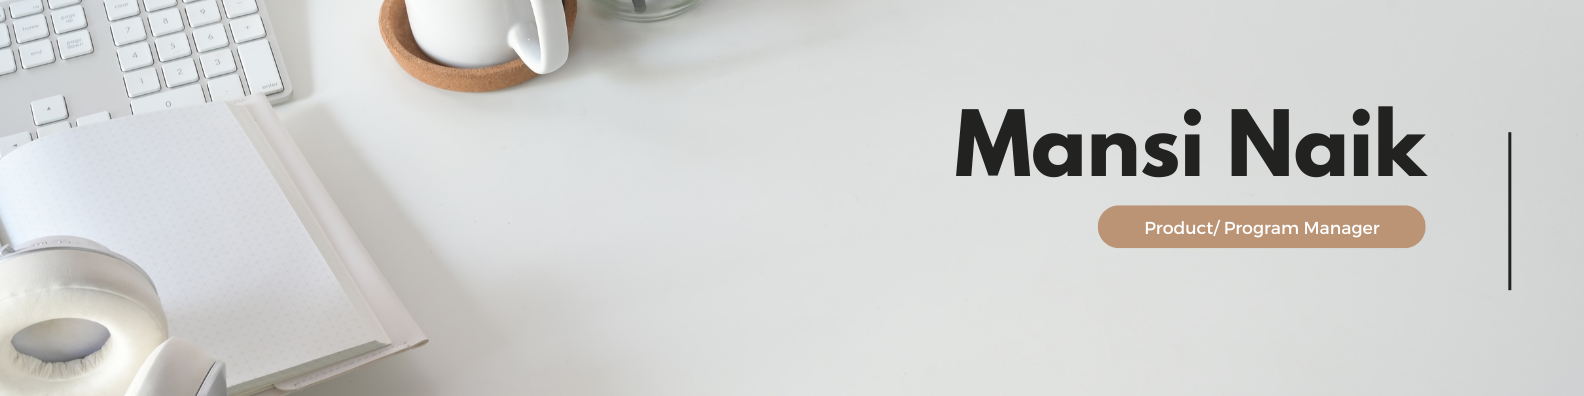
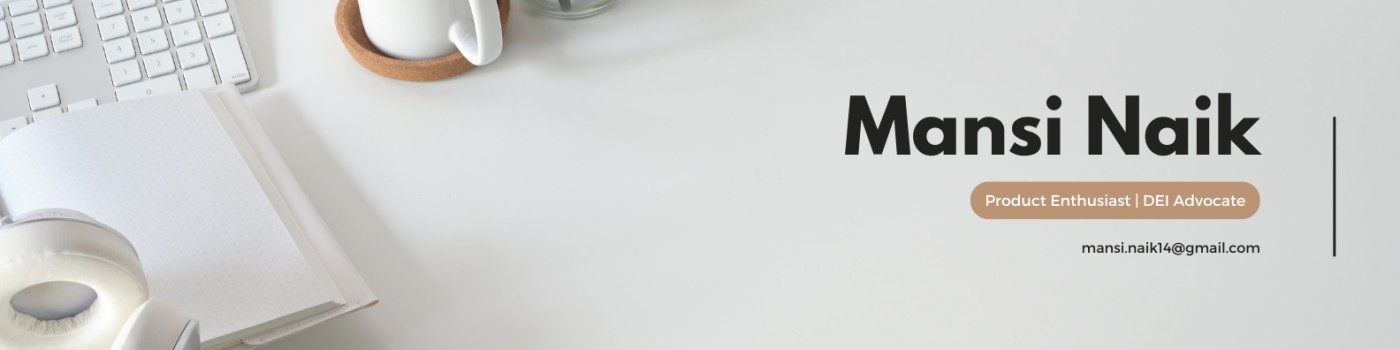
Image and content updated
New image and added Costco travel

diff --git a/index.html b/index.html
@@ -126,7 +126,7 @@
 <body>	
 	<header class="site-margin top">
 		<h1>Mansi Naik</h1>		
-		<article>Mansi is a seasoned Product Manager and Business Analyst with 7+ years of experience in Digital Banking &amp; Financial Services and EdTech Industry, Mansi has a proven track record of leading complex projects and delivering exceptional results. Her expertise lies in mission-critical product management, and she has extensive experience in the entire product life cycle from analysis, architecture, design, and delivery through Software Development Life Cycle methodologies. Mansi&#39;s skills are highlighted in her ability to work with cross-functional teams and stakeholders to define product vision and roadmap, create product requirements, and launch new products. She has a deep understanding of the needs of the Digital Banking &amp; Financial Services and EdTech Industry and has used this knowledge to develop successful products that have generated significant revenue and improved customer experience. Her strengths lie in product strategy and planning, customer research, and UX design. Mansi&#39;s ability to work with Agile and Waterfall methodologies has allowed her to deliver high-quality products on time and within budget. Her passion for technology and her ability to collaborate with cross-functional teams make her an invaluable asset to any organization looking to develop cutting-edge products. 
+		<article>Mansi is a seasoned Product Manager and Business Analyst with 7+ years of experience in Travel Industry, Digital Banking &amp; Financial Services and EdTech Industry, Mansi has a proven track record of leading complex projects and delivering exceptional results. Her expertise lies in mission-critical product management, and she has extensive experience in the entire product life cycle from analysis, architecture, design, and delivery through Software Development Life Cycle methodologies. Mansi&#39;s skills are highlighted in her ability to work with cross-functional teams and stakeholders to define product vision and roadmap, create product requirements, and launch new products. She has a deep understanding of the needs of the Digital Banking &amp; Financial Services and EdTech Industry and has used this knowledge to develop successful products that have generated significant revenue and improved customer experience. Her strengths lie in product strategy and planning, customer research, and UX design. Mansi&#39;s ability to work with Agile and Waterfall methodologies has allowed her to deliver high-quality products on time and within budget. Her passion for technology and her ability to collaborate with cross-functional teams make her an invaluable asset to any organization looking to develop cutting-edge products. 
       <br/><br/>
       She can be reached at <a href="mailto:mansi.naik14@gmail.com">mansi dot naik14 at gmail dot com</a> 
     </article>
@@ -138,62 +138,31 @@
       
   <!-- GoDaddy -->
 
-<h3>Tata Consultancy Services (TCS), Client: Citibank – Banking &amp; Financial Services Company
-    <br/>Technical Product Manager</h3>
-  <p>Oct 2017 – May 2022</p>
+<h3>Costco Travel
+    <br/>Senior Product Owner III </h3>
+  <p>June 2023 – Present</p>
   <ul>
-    <li>Led the program strategy, analysis, and framework architecture for the successful implementation
-      of 30+ projects end-to-end such as WordLink Payments, Instant/Fast Payments, QR Payments, Bank
-      Wallet Payments, SWIFT Payments, etc by collaborating globally with business stakeholders, solution
-      architecture team, engineering managers, QA team &amp; UI/UX teams which resulted 30% YoY growth
-      in revenue.</li>
-    <li>Decreased ‘Domestic Payment’ journey time from 16 seconds to 7 seconds for UK &amp; Australia
-      Citibank to improve user experience and improved user experience by 65%.</li>
-    <li>By making data-driven decisions under my leadership, the product team successfully overhauled
-      the Payment &amp; Transfer module of Citibank&#39;s Mobile Application in several countries including UK,
-      Singapore, UAE, Poland, Malaysia, and Australia, resulting in a remarkable revenue increase of $125
-      million.</li>
-    <li>Partnering with country legal and regulation teams, collaborated with cross-functional teams and
-      successfully prioritized product backlogs and avoided over $50 million in fines in Australia,
-      Singapore, UK, &amp; Russia</li>
-    <li>Implemented automation of daily MIS Financial analysis reports using Tableau and SAS, resulting in
-      a 35% reduction in workload and a saving of 400 resource hours.</li>
-    <li>Re-Engineered the cloud transformation of the traditional banking system(SAAS) from monolithic
-      to micro services API with close coordination with the engineering leads and managing user stories
-      and product grooming cycle.</li>    
+    <li>Owned production issue backlog, achieving a 25% reduction in the last 3 months through proactive troubleshooting and resolution.</li>
+    <li>Strategically identified and proposed product enhancements, leveraging market research and user feedback, leading to the prioritization of key improvements for implementation in the upcoming quarter.</li>    
   </ul>
 
   <h4>Technologies:</h4>
-  Agile methodology, DevOps practices, API development, HTML, CSS, JavaScript, Java, Swift Cloud platforms (AWS), Big data analysis (Hadoop &amp; Spark) Security and encryption technologies
+  Agile methodology, DevOps practices, API development, HTML, CSS, JavaScript, Java, Azure Cloud
 
   <h4>Tools:</h4>
-  JIRA, IBIS, Blueprint, Confluence, Asana, Google Collabs, Google Trends, RStudio, Jupyter Notebook, Microsoft 365.
+  TFS, Sharepoint, Confluence, Google Analytics, Google Collabs, Microsoft 365.
 
   <h4>Key Focus:</h4>
-  Project analysis and framework architecture, Revenue growth and financial analysis, User experience
-design and optimization, Journey mapping and improvement, Technical analysis and
-optimization, Performance measurement and analysis, Data-driven decision making and
-analysis, Product management and leadership, Mobile application development and
-optimization, Global stakeholder collaboration and management, Business requirements gathering
-and documentation, Cross-functional team collaboration and management, Product backlog
-prioritization, Risk analysis and mitigation, Microservices API design and implementation, A/B
-Testing
-  
-  <h3>Tata Consultancy Services (TCS), Client: Citibank – Banking &amp; Financial Services Company
+  Production Issue Backlog Management, Product Enhancement Strategy, Quarterly Implementation Planning, Journey mapping and improvement, Continuous Improvement, Stakeholder Communication, Data Analysis and Metrics, Product management and leadership, Mobile application development and
+optimization, Global stakeholder collaboration and management, Team Collaboration and Leadership, Cross-functional team collaboration and management
+
+  <h3>Tata Consultancy Services, Client: Citibank – Banking &amp; Financial Services Company
     <br/>Technical Product Manager</h3>
   <p>Oct 2017 – May 2022</p>
   <ul>
-    <li>Led the program strategy, analysis, and framework architecture for the successful implementation
-      of 30+ projects end-to-end such as WordLink Payments, Instant/Fast Payments, QR Payments, Bank
-      Wallet Payments, SWIFT Payments, etc by collaborating globally with business stakeholders, solution
-      architecture team, engineering managers, QA team &amp; UI/UX teams which resulted 30% YoY growth
-      in revenue.</li>
-    <li>Decreased ‘Domestic Payment’ journey time from 16 seconds to 7 seconds for UK &amp; Australia
-      Citibank to improve user experience and improved user experience by 65%.</li>
-    <li>By making data-driven decisions under my leadership, the product team successfully overhauled
-      the Payment &amp; Transfer module of Citibank&#39;s Mobile Application in several countries including UK,
-      Singapore, UAE, Poland, Malaysia, and Australia, resulting in a remarkable revenue increase of $125
-      million.</li>
+    <li>Led the program strategy, analysis (OOD, UML), user story grooming and framework architecture for the successful implementation of 30+ projects end-to-end such as WordLink Payments, Instant/Fast Payments, QR Payments, Bank Wallet Payments, SWIFT Payments, etc by collaborating globally with business stakeholders, solution architecture team, engineering managers, QA team & UI/ UX teams.</li>
+    <li>Improved performance by decreasing ‘Domestic Payment’ journey time from 16 seconds to 7 seconds for UK & Australia Citibank by optimizing API responses and achieved 65% increase in user engagement & experience.</li>
+    <li>By making data-driven decisions under my leadership, the product team successfully overhauled the Payment & Transfer module of Citibank's Mobile Application in several countries including UK, Singapore, UAE, Poland, Malaysia, and Australia, resulting in a remarkable revenue increase of $125 million.</li>
     <li>Partnering with country legal and regulation teams, collaborated with cross-functional teams and
       successfully prioritized product backlogs and avoided over $50 million in fines in Australia,
       Singapore, UK, &amp; Russia</li>
@@ -221,7 +190,7 @@ prioritization, Risk analysis and mitigation, Microservices API design and impl
 Testing
 
   <!-- Tripadvisor -->
-  <h3>Tata Consultancy Services (TCS)
+  <h3>Tata Consultancy Services
     <br/>Business Analyst
   </h3>
   <p>Aug 2015 – Oct 2017</p>
